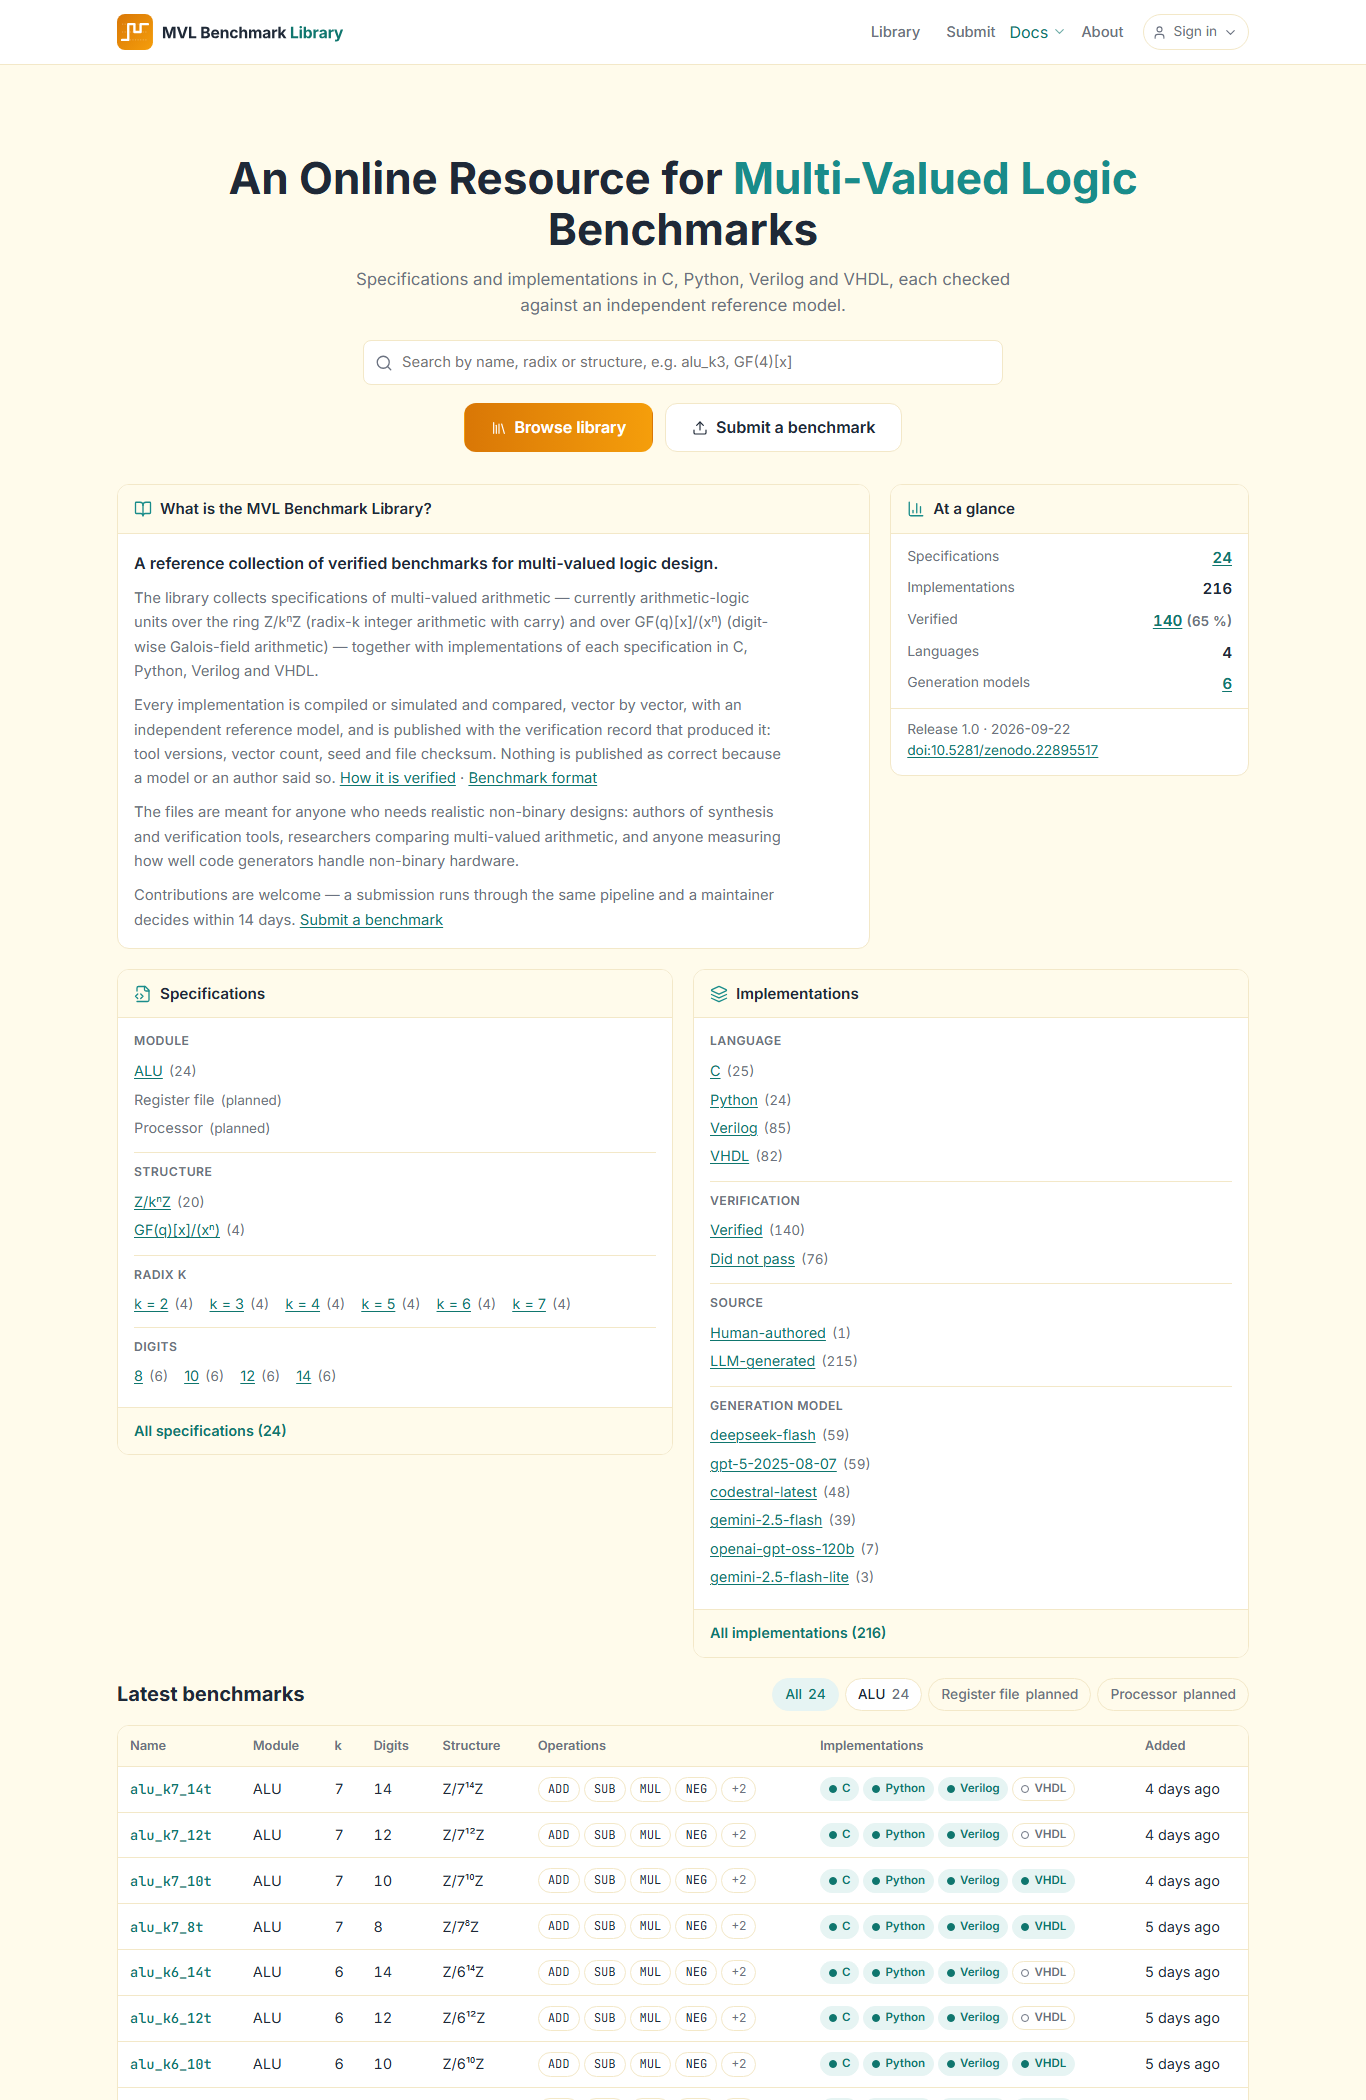
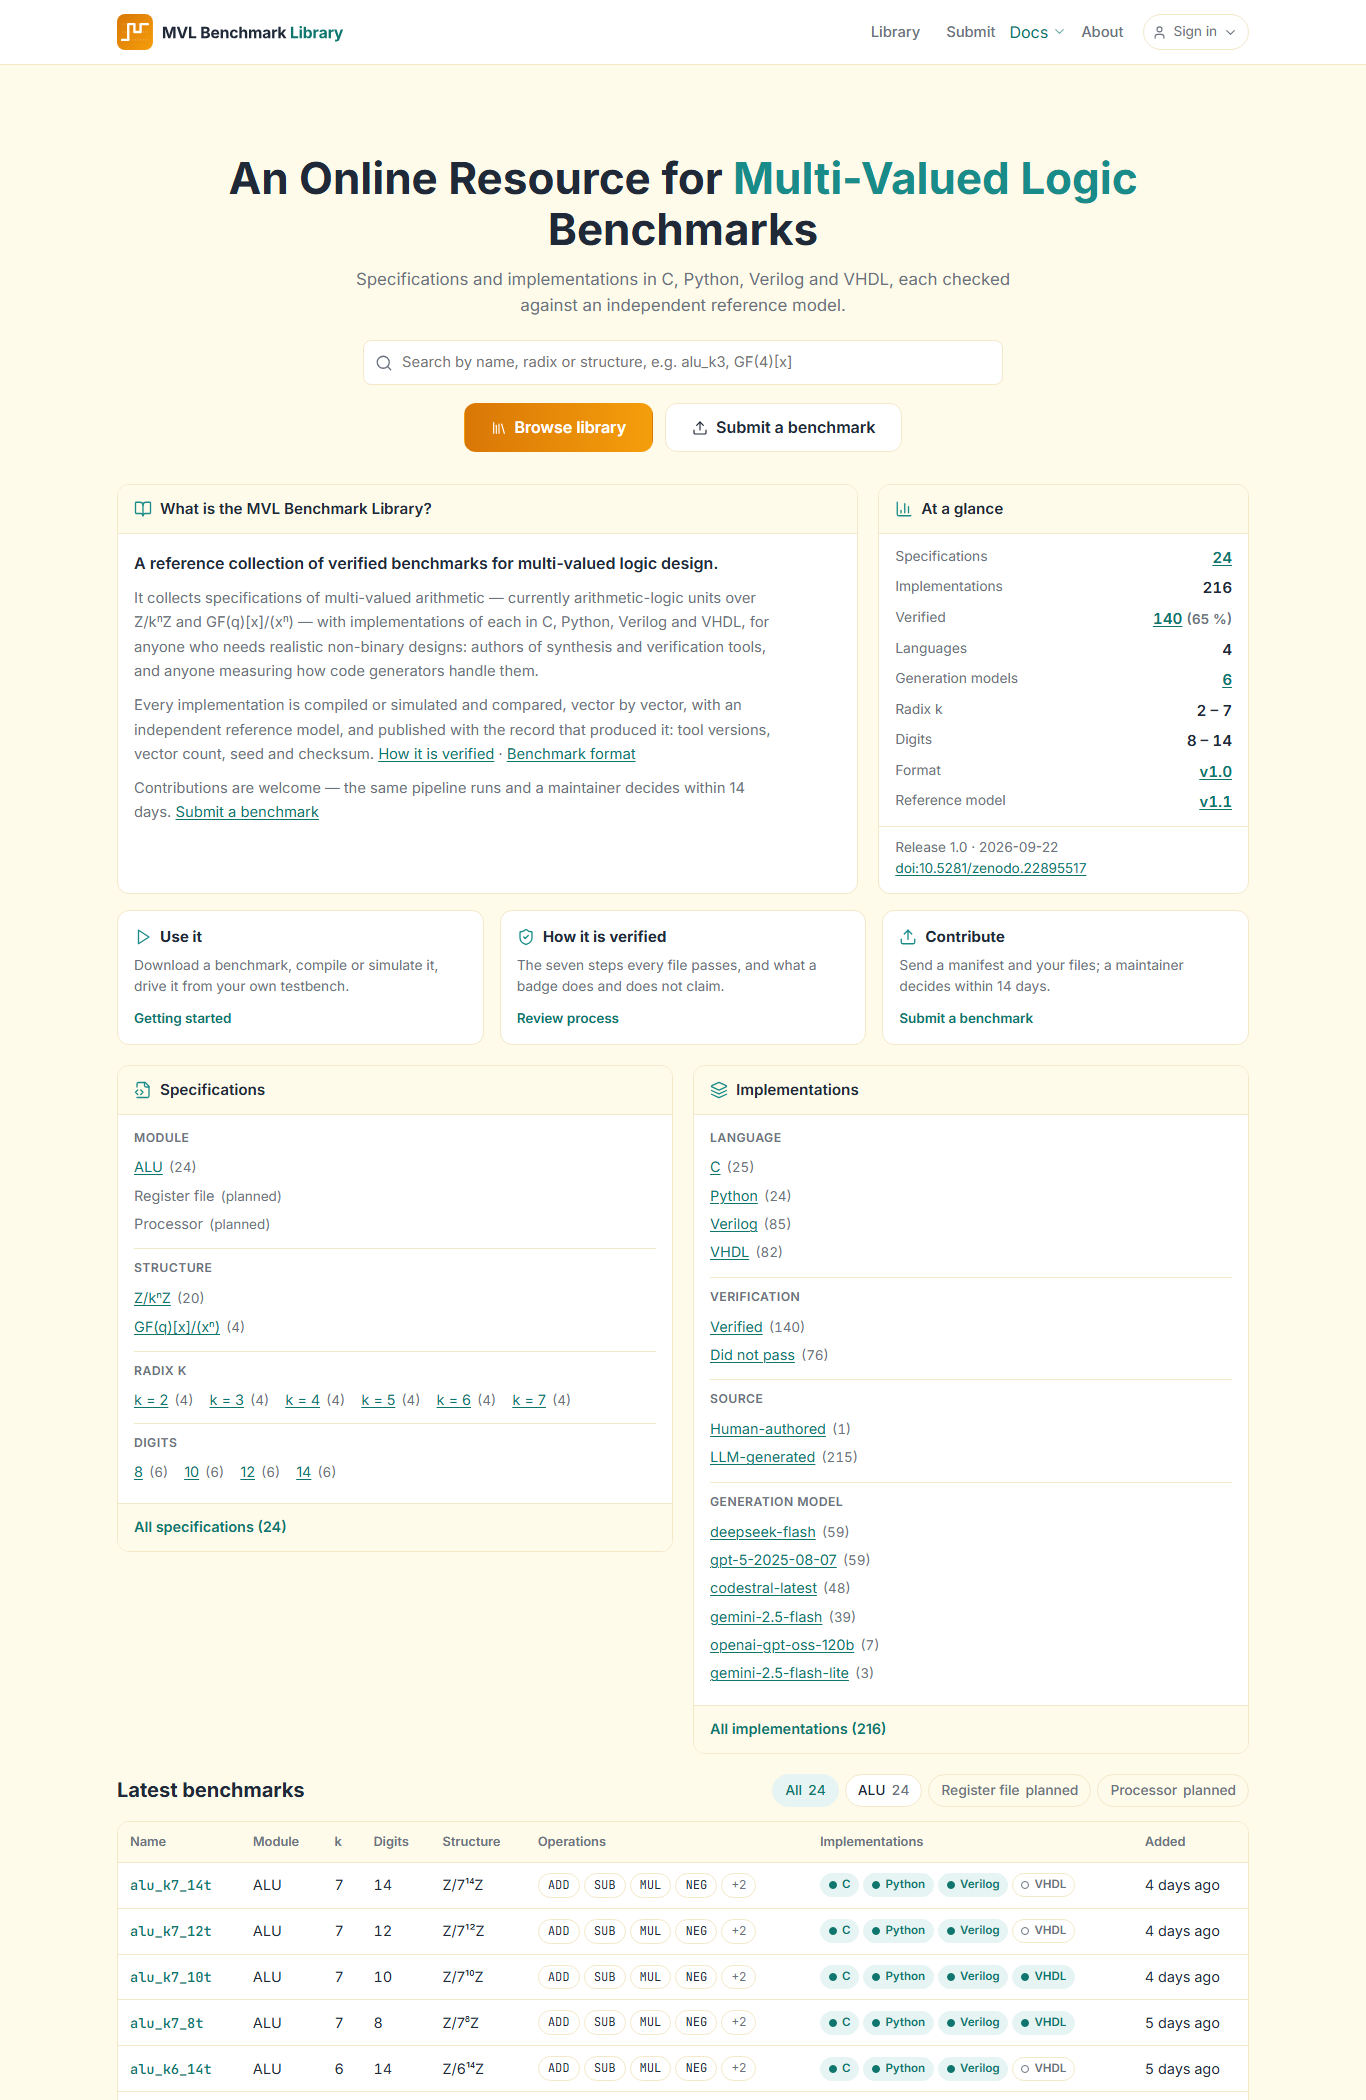
Home: balance the intro row — richer At a glance, shorter identity text, path cards as their own row
The identity panel and the statistics box now end on the same line (410 px each):
the panel text is about half as long, and At a glance carries the radix and digit
ranges and the format and reference-model versions. The three path cards move out
of the right column into a three-across row under it, where they are naturally
equal height.

diff --git a/web/templates/library/home.html b/web/templates/library/home.html
@@ -22,27 +22,21 @@
         <div class="panel-body">
             <p class="lead">A reference collection of verified benchmarks for multi-valued logic design.</p>
             <p>
-                The library collects specifications of multi-valued arithmetic — currently arithmetic-logic
-                units over the ring Z/kⁿZ (radix-k integer arithmetic with carry) and over GF(q)[x]/(xⁿ)
-                (digit-wise Galois-field arithmetic) — together with implementations of each specification
-                in C, Python, Verilog and VHDL.
+                It collects specifications of multi-valued arithmetic — currently arithmetic-logic units
+                over Z/kⁿZ and GF(q)[x]/(xⁿ) — with implementations of each in C, Python, Verilog and
+                VHDL, for anyone who needs realistic non-binary designs: authors of synthesis and
+                verification tools, and anyone measuring how code generators handle them.
             </p>
             <p>
                 Every implementation is compiled or simulated and compared, vector by vector, with an
-                independent reference model, and is published with the verification record that produced
-                it: tool versions, vector count, seed and file checksum. Nothing is published as correct
-                because a model or an author said so.
+                independent reference model, and published with the record that produced it: tool
+                versions, vector count, seed and checksum.
                 <a href="{{ url_for('library.review') }}">How it is verified</a> ·
                 <a href="{{ url_for('library.format') }}">Benchmark format</a>
             </p>
-            <p>
-                The files are meant for anyone who needs realistic non-binary designs: authors of synthesis
-                and verification tools, researchers comparing multi-valued arithmetic, and anyone measuring
-                how well code generators handle non-binary hardware.
-            </p>
             <p class="invite">
-                Contributions are welcome — a submission runs through the same pipeline and a maintainer
-                decides within 14 days. <a href="{{ url_for('submit.form') }}">Submit a benchmark</a>
+                Contributions are welcome — the same pipeline runs and a maintainer decides within
+                14 days. <a href="{{ url_for('submit.form') }}">Submit a benchmark</a>
             </p>
         </div>
     </section>
@@ -55,12 +49,36 @@
             <dt>Verified</dt><dd><a href="{{ url_for('library.browse', verified='1') }}">{{ stats.verified }}</a> <span class="muted small">({{ stats.verified_pct }} %)</span></dd>
             <dt>Languages</dt><dd>{{ language_labels|length }}</dd>
             <dt>Generation models</dt><dd><a href="{{ url_for('library.models') }}">{{ model_count }}</a></dd>
+            {% if stats.benchmarks %}
+            <dt>Radix k</dt><dd>{{ stats.k_min }} – {{ stats.k_max }}</dd>
+            <dt>Digits</dt><dd>{{ stats.digits_min }} – {{ stats.digits_max }}</dd>
+            {% endif %}
+            <dt>Format</dt><dd><a href="{{ url_for('library.format') }}">v{{ format_version }}</a></dd>
+            <dt>Reference model</dt><dd><a href="{{ url_for('library.format') }}#reference-model">v{{ golden_version }}</a></dd>
         </dl>
         <p class="glance-foot small">
             Release {{ release.version }}{% if release.date %} · {{ release.date }}{% endif %}<br>
             {% if release.doi %}<a href="{{ release.doi_url }}" target="_blank" rel="noopener">doi:{{ release.doi }}</a>{% else %}DOI pending{% endif %}
         </p>
     </aside>
+</div>
+
+<div class="path-row">
+    <a class="path-card" href="{{ url_for('library.getting_started') }}">
+        <h3><i data-lucide="play" class="icon"></i> Use it</h3>
+        <p>Download a benchmark, compile or simulate it, drive it from your own testbench.</p>
+        <span class="path-more">Getting started</span>
+    </a>
+    <a class="path-card" href="{{ url_for('library.review') }}">
+        <h3><i data-lucide="shield-check" class="icon"></i> How it is verified</h3>
+        <p>The seven steps every file passes, and what a badge does and does not claim.</p>
+        <span class="path-more">Review process</span>
+    </a>
+    <a class="path-card" href="{{ url_for('submit.form') }}">
+        <h3><i data-lucide="upload" class="icon"></i> Contribute</h3>
+        <p>Send a manifest and your files; a maintainer decides within 14 days.</p>
+        <span class="path-more">Submit a benchmark</span>
+    </a>
 </div>
 
 <div class="cat-row">
@@ -136,24 +154,6 @@
     </div>
     {% endif %}
 </section>
-
-<div class="path-row">
-    <a class="path-card" href="{{ url_for('library.getting_started') }}">
-        <h3><i data-lucide="play" class="icon"></i> Use it</h3>
-        <p>Download a benchmark, compile or simulate it, and drive it from your own testbench.</p>
-        <span class="path-more">Getting started</span>
-    </a>
-    <a class="path-card" href="{{ url_for('library.review') }}">
-        <h3><i data-lucide="shield-check" class="icon"></i> How it is verified</h3>
-        <p>The seven steps every file passes, what counts as a pass, and what the badges mean.</p>
-        <span class="path-more">Review process</span>
-    </a>
-    <a class="path-card" href="{{ url_for('submit.form') }}">
-        <h3><i data-lucide="upload" class="icon"></i> Contribute</h3>
-        <p>Send a manifest and your files; the same pipeline runs and a maintainer decides within 14 days.</p>
-        <span class="path-more">Submit a benchmark</span>
-    </a>
-</div>
 
 <div class="home-two home-bottom">
     <section>

diff --git a/web/static/css/library.css b/web/static/css/library.css
@@ -420,15 +420,18 @@ pre.bibtex { background: var(--bg); border: 1px solid var(--border); border-radi
 
 /* Home: identity panel + at a glance */
 .hero-compact { padding-bottom: 8px; }
-.intro-row { display: grid; grid-template-columns: minmax(0, 2.1fr) minmax(240px, 1fr); gap: 20px; margin: 24px 0 8px; align-items: start; }
+.intro-row { display: grid; grid-template-columns: minmax(0, 2fr) minmax(260px, 1fr); gap: 20px; margin: 24px 0 8px; align-items: stretch; }
+
 .intro-panel, .glance-panel, .cat-panel { background: var(--surface); border: 1px solid var(--border); border-radius: var(--radius); overflow: hidden; }
 .panel-head, .cat-head { display: flex; align-items: center; gap: 8px; margin: 0; padding: 12px 16px; font-size: .95rem; font-weight: 600; background: var(--bg); border-bottom: 1px solid var(--border); }
 .panel-head .icon, .cat-head .icon { color: var(--link); }
-.intro-panel .panel-body { padding: 16px; }
+.intro-panel { display: flex; flex-direction: column; }
+.intro-panel .panel-body { padding: 16px; flex: 1 1 auto; }
 .intro-panel p { margin: 0 0 10px; font-size: .92rem; line-height: 1.65; color: var(--text-muted); max-width: 70ch; }
 .intro-panel p.lead { font-size: 1rem; font-weight: 600; color: var(--text); }
 .intro-panel p.invite { margin-bottom: 0; }
-.glance { margin: 0; padding: 12px 16px; display: grid; grid-template-columns: 1fr auto; gap: 8px 12px; }
+.glance-panel { display: flex; flex-direction: column; }
+.glance { margin: 0; padding: 12px 16px; display: grid; grid-template-columns: 1fr auto; gap: 7px 12px; align-content: start; flex: 1 1 auto; }
 .glance dt { font-size: .86rem; color: var(--text-muted); }
 .glance dd { margin: 0; font-size: .95rem; font-weight: 600; font-variant-numeric: tabular-nums; text-align: right; }
 .glance-foot { margin: 0; padding: 10px 16px 14px; border-top: 1px solid var(--border); color: var(--text-muted); }
@@ -447,13 +450,13 @@ pre.bibtex { background: var(--bg); border: 1px solid var(--border); border-radi
 .cat-foot { padding: 12px 16px; background: var(--bg); border-top: 1px solid var(--border); font-size: .9rem; font-weight: 600; }
 
 /* Home: the three paths */
-.path-row { display: grid; grid-template-columns: repeat(auto-fit, minmax(240px, 1fr)); gap: 16px; margin: 28px 0; }
-.path-card { display: block; background: var(--surface); border: 1px solid var(--border); border-radius: var(--radius); padding: 16px; color: var(--text); }
+.path-row { display: grid; grid-template-columns: repeat(auto-fit, minmax(250px, 1fr)); gap: 16px; margin: 16px 0 4px; }
+.path-card { display: block; background: var(--surface); border: 1px solid var(--border); border-radius: var(--radius); padding: 14px 16px; color: var(--text); }
 .path-card:hover { border-color: var(--link); text-decoration: none; box-shadow: 0 6px 18px rgb(31 41 55 / .06); }
-.path-card h3 { display: flex; align-items: center; gap: 8px; margin: 0 0 8px; font-size: .98rem; }
+.path-card h3 { display: flex; align-items: center; gap: 8px; margin: 0 0 6px; font-size: .95rem; }
 .path-card h3 .icon { color: var(--link); }
-.path-card p { margin: 0 0 10px; font-size: .88rem; color: var(--text-muted); line-height: 1.6; }
-.path-more { font-size: .86rem; font-weight: 600; color: var(--link-hover); }
+.path-card p { margin: 0 0 8px; font-size: .86rem; color: var(--text-muted); line-height: 1.55; }
+.path-more { font-size: .84rem; font-weight: 600; color: var(--link-hover); }
 
 /* Docs index */
 .doc-grid { display: grid; grid-template-columns: repeat(auto-fit, minmax(280px, 1fr)); gap: 16px; margin: 20px 0 28px; }

diff --git a/src/library/service.py b/src/library/service.py
@@ -623,10 +623,11 @@ def stats(session) -> Dict:
                                  .where(Implementation.status == 'published',
                                         Implementation.golden_status == 'PASS')).scalar_one()
     kmin, kmax = session.execute(select(func.min(Benchmark.k_value), func.max(Benchmark.k_value)).where(pub)).one()
+    dmin, dmax = session.execute(select(func.min(Benchmark.bitwidth), func.max(Benchmark.bitwidth)).where(pub)).one()
     return {
         'benchmarks': n_bm, 'implementations': n_impl, 'verified': n_verified,
         'verified_pct': round(100 * n_verified / n_impl) if n_impl else 0,
-        'k_min': kmin, 'k_max': kmax,
+        'k_min': kmin, 'k_max': kmax, 'digits_min': dmin, 'digits_max': dmax,
     }
 
 
